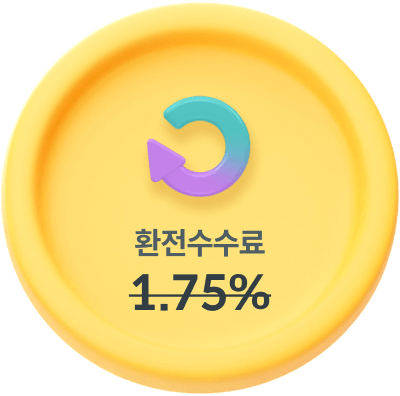
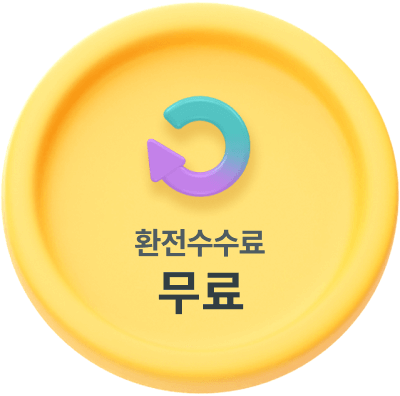
이용안내 환전수수료 무료 문구변경

Changed region(s): [[0.33, 0.6667, 0.69, 0.7879]]

diff --git a/html/hmui/guide/globalPageList.html b/html/hmui/guide/globalPageList.html
@@ -142,9 +142,9 @@ var menuList = [
   {'group':'', 'code':'GSP','depth1':'외화 하나머니 소개','name':'트래블로그 혜택 안내','pageid':'GSP_002', 'status':'완료', 'date':'22.05.20', 'remarks':'<span>-22.06.22 문구변경</span><span>-22.06.17 문구변경</span><span>-22.06.14 문구추가</span><span>-22.06.08 아이콘클래스 및 문구변경</span><span>-22.05.31 문구변경 및 헤더타입변경</span>'},
 
 
-  {'group':'Util', 'code':'UTL','depth1':'이용안내','name':'하나머니 이용안내','pageid':'UTL_001', 'status':'완료', 'date':'22.05.20', 'remarks':'<span>-22.05.31 문구변경</span><br><span>-22.05.27 문구변경</span>'},
-  {'group':'', 'code':'UTL','depth1':'','name':'하나머니 이용안내-mWeb','pageid':'UTL_001_mWeb', 'status':'완료', 'date':'22.05.27', 'remarks':'<span>-22.05.31 문구변경</span>'},
-  {'group':'', 'code':'UTL','depth1':'','name':'하나머니 이용안내-inapp','pageid':'UTL_001_inapp', 'status':'완료', 'date':'22.05.27', 'remarks':'<span>-22.06.09 버튼삭제</span><span>-22.05.31 문구변경</span>'},
+  {'group':'Util', 'code':'UTL','depth1':'이용안내','name':'하나머니 이용안내','pageid':'UTL_001', 'status':'완료', 'date':'22.05.20', 'remarks':'<span>-22.07.05 문구변경</span><span>-22.05.31 문구변경</span><br><span>-22.05.27 문구변경</span>'},
+  {'group':'', 'code':'UTL','depth1':'','name':'하나머니 이용안내-mWeb','pageid':'UTL_001_mWeb', 'status':'완료', 'date':'22.05.27', 'remarks':'<span>-22.07.05 문구변경</span><span>-22.05.31 문구변경</span>'},
+  {'group':'', 'code':'UTL','depth1':'','name':'하나머니 이용안내-inapp','pageid':'UTL_001_inapp', 'status':'완료', 'date':'22.05.27', 'remarks':'<span>-22.07.05 문구변경</span><span>-22.06.09 버튼삭제</span><span>-22.05.31 문구변경</span>'},
   {'group':'', 'code':'UTL','depth1':'전체메뉴','name':'전체메뉴','pageid':'UTL_101', 'status':'X', 'date':'', 'remarks':'Native'},
 
 

diff --git a/html/global/UTL/UTL_001.html b/html/global/UTL/UTL_001.html
@@ -96,7 +96,7 @@
             </div>
             <div class="swiper-container utl_charge_swiper">
               <ul class="swiper-wrapper">
-                <li class="swiper-slide"><img src="../../../images/global/img_utl_charge_1.png" alt="환전수수료 1.75%"></li>
+                <li class="swiper-slide"><img src="../../../images/global/img_utl_charge_1.png" alt="환전수수료 무료"></li><!-- 22.07.05 문구변경 -->
                 <li class="swiper-slide"><img src="../../../images/global/img_utl_charge_2.png" alt="해외가맹점 이용수수료 1%+$0.5"></li><!-- 22.05.27 문구변경 -->
                 <li class="swiper-slide"><img src="../../../images/global/img_utl_charge_3.png" alt="해외ATM인출 수수료 1%+$3"></li><!-- 22.05.27 문구변경 -->
               </ul>

diff --git a/html/global/UTL/UTL_001_mWeb.html b/html/global/UTL/UTL_001_mWeb.html
@@ -122,7 +122,7 @@
             </div>
             <div class="swiper-container utl_charge_swiper">
               <ul class="swiper-wrapper">
-                <li class="swiper-slide"><img src="../../../images/global/img_utl_charge_1.png" alt="환전수수료 1.75%"></li>
+                <li class="swiper-slide"><img src="../../../images/global/img_utl_charge_1.png" alt="환전수수료 무료"></li><!-- 22.07.05 문구변경 -->
                 <li class="swiper-slide"><img src="../../../images/global/img_utl_charge_2.png" alt="해외 가맹점 이용 수수료 1%+$0.5"></li>
                 <li class="swiper-slide"><img src="../../../images/global/img_utl_charge_3.png" alt="해외 ATM 인출 수수료 1%+$3"></li>
               </ul>

diff --git a/html/global/UTL/UTL_001_inapp.html b/html/global/UTL/UTL_001_inapp.html
@@ -121,7 +121,7 @@
             </div>
             <div class="swiper-container utl_charge_swiper">
               <ul class="swiper-wrapper">
-                <li class="swiper-slide"><img src="../../../images/global/img_utl_charge_1.png" alt="환전수수료 1.75%"></li>
+                <li class="swiper-slide"><img src="../../../images/global/img_utl_charge_1.png" alt="환전수수료 무료"></li><!-- 22.07.05 문구변경 -->
                 <li class="swiper-slide"><img src="../../../images/global/img_utl_charge_2.png" alt="해외 가맹점 이용수수료 1%+$0.5"></li>
                 <li class="swiper-slide"><img src="../../../images/global/img_utl_charge_3.png" alt="해외 ATM 인출 수수료 1%+$3"></li>
               </ul>
